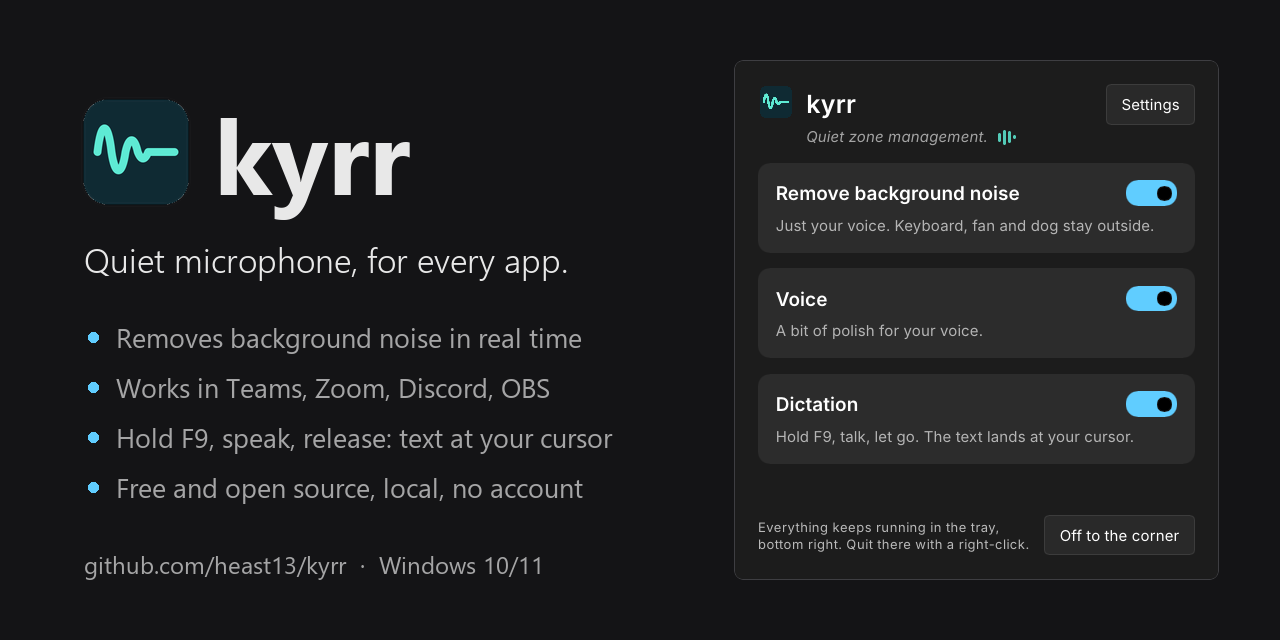
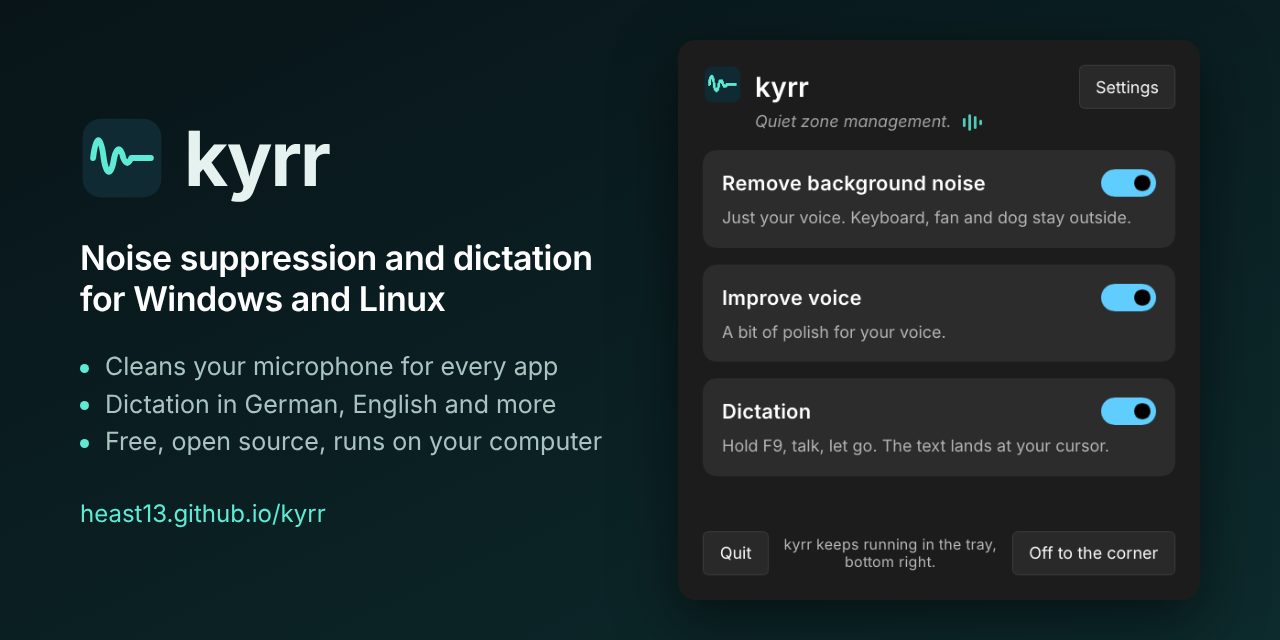
Website: link previews, new social image, bug form for Linux (#58)
* Website: link preview and search metadata, new social image

Open Graph and Twitter tags, canonical links, schema.org data and a sitemap
for both languages. New 1280x640 social image (also docs/social-preview.png,
which still showed the old window and Windows only). Feature heading now
matches the app (Improve voice / Stimme verbessern).

Claude-Session: https://claude.ai/code/session_01JDMqPkz7VNdPHimkPB2xZ1

* Bug report form: ask for Linux details too

The form required a Windows version, so Linux reports could not be filed
properly. It now asks for the system (Windows version or distribution,
desktop, X11/Wayland), the kyrr version and the Linux log source.

Claude-Session: https://claude.ai/code/session_01JDMqPkz7VNdPHimkPB2xZ1

* Website: German social image and matching German descriptions

Claude-Session: https://claude.ai/code/session_01JDMqPkz7VNdPHimkPB2xZ1

---------

diff --git a/site/de/index.html b/site/de/index.html
@@ -6,6 +6,23 @@
 <title>kyrr: Geräuschunterdrückung und Diktierfunktion für Windows und Linux</title>
 <meta name="description" content="kyrr ist eine kostenlose Open-Source-App für Windows und Linux. Sie entfernt Störgeräusche aus dem Mikrofon und wandelt Sprache in Text um, auf Deutsch, Englisch und weiteren europäischen Sprachen, lokal auf deinem Computer.">
 <meta name="color-scheme" content="light dark">
+<meta name="theme-color" content="#0f766e">
+<link rel="canonical" href="https://heast13.github.io/kyrr/de/">
+<meta property="og:type" content="website">
+<meta property="og:site_name" content="kyrr">
+<meta property="og:title" content="kyrr: Geräuschunterdrückung und Diktierfunktion für Windows und Linux">
+<meta property="og:description" content="kyrr ist eine kostenlose Open-Source-App für Windows und Linux. Sie entfernt Störgeräusche aus dem Mikrofon und wandelt Sprache in Text um, auf Deutsch, Englisch und weiteren europäischen Sprachen, lokal auf deinem Computer.">
+<meta property="og:url" content="https://heast13.github.io/kyrr/de/">
+<meta property="og:image" content="https://heast13.github.io/kyrr/social-de.png">
+<meta property="og:image:width" content="1280">
+<meta property="og:image:height" content="640">
+<meta property="og:image:alt" content="Das kyrr-Fenster neben dem Text: Geräuschunterdrückung und Diktierfunktion für Windows und Linux">
+<meta property="og:locale" content="de_DE">
+<meta property="og:locale:alternate" content="en_US">
+<meta name="twitter:card" content="summary_large_image">
+<script type="application/ld+json">
+{"@context":"https://schema.org","@type":"SoftwareApplication","name":"kyrr","applicationCategory":"MultimediaApplication","operatingSystem":"Windows 10, Windows 11, Linux","description":"kyrr ist eine kostenlose Open-Source-App für Windows und Linux. Sie entfernt Störgeräusche aus dem Mikrofon und wandelt Sprache in Text um, auf Deutsch, Englisch und weiteren europäischen Sprachen, lokal auf deinem Computer.","url":"https://heast13.github.io/kyrr/de/","downloadUrl":"https://github.com/heast13/kyrr/releases/latest","image":"https://heast13.github.io/kyrr/social-de.png","inLanguage":["en","de"],"license":"https://github.com/heast13/kyrr#license","isAccessibleForFree":true,"offers":{"@type":"Offer","price":"0","priceCurrency":"EUR"},"codeRepository":"https://github.com/heast13/kyrr"}
+</script>
 <link rel="icon" type="image/svg+xml" href="../kyrr.svg">
 <link rel="alternate" hreflang="en" href="https://heast13.github.io/kyrr/">
 <link rel="alternate" hreflang="de" href="https://heast13.github.io/kyrr/de/">
@@ -56,7 +73,7 @@
         <p>Entfernt Hintergrundgeräusche wie Tippen, Lüfter oder Verkehr in Echtzeit aus dem Mikrofonsignal. kyrr nutzt dafür das neuronale Netz DPDFNet, mit einem großen Modell und einem kleinen, das weniger Rechenleistung braucht. Apps wie Teams, Zoom, Discord, OBS oder der Browser bekommen den bereinigten Ton, ohne dass du dort etwas einstellen musst.</p>
       </div>
       <div class="feature">
-        <h3>Stimmbearbeitung</h3>
+        <h3>Stimme verbessern</h3>
         <p>Filter gegen tiefes Rumpeln, Klang-Voreinstellungen (Neutral, Warm, Klar, Hell oder eigene), Kompressor, De-Esser, Popschutz und automatische Lautstärke. Voreingestellt: neutraler Klang, mittlere Kompression, leichte S-Laut-Dämpfung, Rumpelfilter und automatische Lautstärke. Alles lässt sich in den Einstellungen ändern.</p>
       </div>
       <div class="feature">

diff --git a/site/index.html b/site/index.html
@@ -6,6 +6,23 @@
 <title>kyrr: noise suppression and dictation for Windows and Linux</title>
 <meta name="description" content="kyrr is a free, open-source app for Windows and Linux. It removes background noise from your microphone and converts speech to text in German, English and more European languages, processed locally on your computer.">
 <meta name="color-scheme" content="light dark">
+<meta name="theme-color" content="#0f766e">
+<link rel="canonical" href="https://heast13.github.io/kyrr/">
+<meta property="og:type" content="website">
+<meta property="og:site_name" content="kyrr">
+<meta property="og:title" content="kyrr: noise suppression and dictation for Windows and Linux">
+<meta property="og:description" content="kyrr is a free, open-source app for Windows and Linux. It removes background noise from your microphone and converts speech to text in German, English and more European languages, processed locally on your computer.">
+<meta property="og:url" content="https://heast13.github.io/kyrr/">
+<meta property="og:image" content="https://heast13.github.io/kyrr/social.png">
+<meta property="og:image:width" content="1280">
+<meta property="og:image:height" content="640">
+<meta property="og:image:alt" content="kyrr's window next to the text: noise suppression and dictation for Windows and Linux">
+<meta property="og:locale" content="en_US">
+<meta property="og:locale:alternate" content="de_DE">
+<meta name="twitter:card" content="summary_large_image">
+<script type="application/ld+json">
+{"@context":"https://schema.org","@type":"SoftwareApplication","name":"kyrr","applicationCategory":"MultimediaApplication","operatingSystem":"Windows 10, Windows 11, Linux","description":"kyrr is a free, open-source app for Windows and Linux. It removes background noise from your microphone and converts speech to text in German, English and more European languages, processed locally on your computer.","url":"https://heast13.github.io/kyrr/","downloadUrl":"https://github.com/heast13/kyrr/releases/latest","image":"https://heast13.github.io/kyrr/social.png","inLanguage":["en","de"],"license":"https://github.com/heast13/kyrr#license","isAccessibleForFree":true,"offers":{"@type":"Offer","price":"0","priceCurrency":"EUR"},"codeRepository":"https://github.com/heast13/kyrr"}
+</script>
 <link rel="icon" type="image/svg+xml" href="kyrr.svg">
 <link rel="alternate" hreflang="en" href="https://heast13.github.io/kyrr/">
 <link rel="alternate" hreflang="de" href="https://heast13.github.io/kyrr/de/">
@@ -68,7 +85,7 @@
         <p>Removes background noise such as typing, fans or traffic from the microphone signal in real time. kyrr uses the neural network DPDFNet, with a large model and a small one that needs less processing power. Apps such as Teams, Zoom, Discord, OBS or a browser receive the cleaned sound without any change to their settings.</p>
       </div>
       <div class="feature">
-        <h3>Voice processing</h3>
+        <h3>Improve voice</h3>
         <p>Filter for low rumble, tone presets (Neutral, Warm, Clear, Bright or custom), compressor, de-esser, pop protection and automatic volume. Default: neutral tone, medium compression, light de-essing, rumble filter and automatic volume. Everything can be changed in Settings.</p>
       </div>
       <div class="feature">
